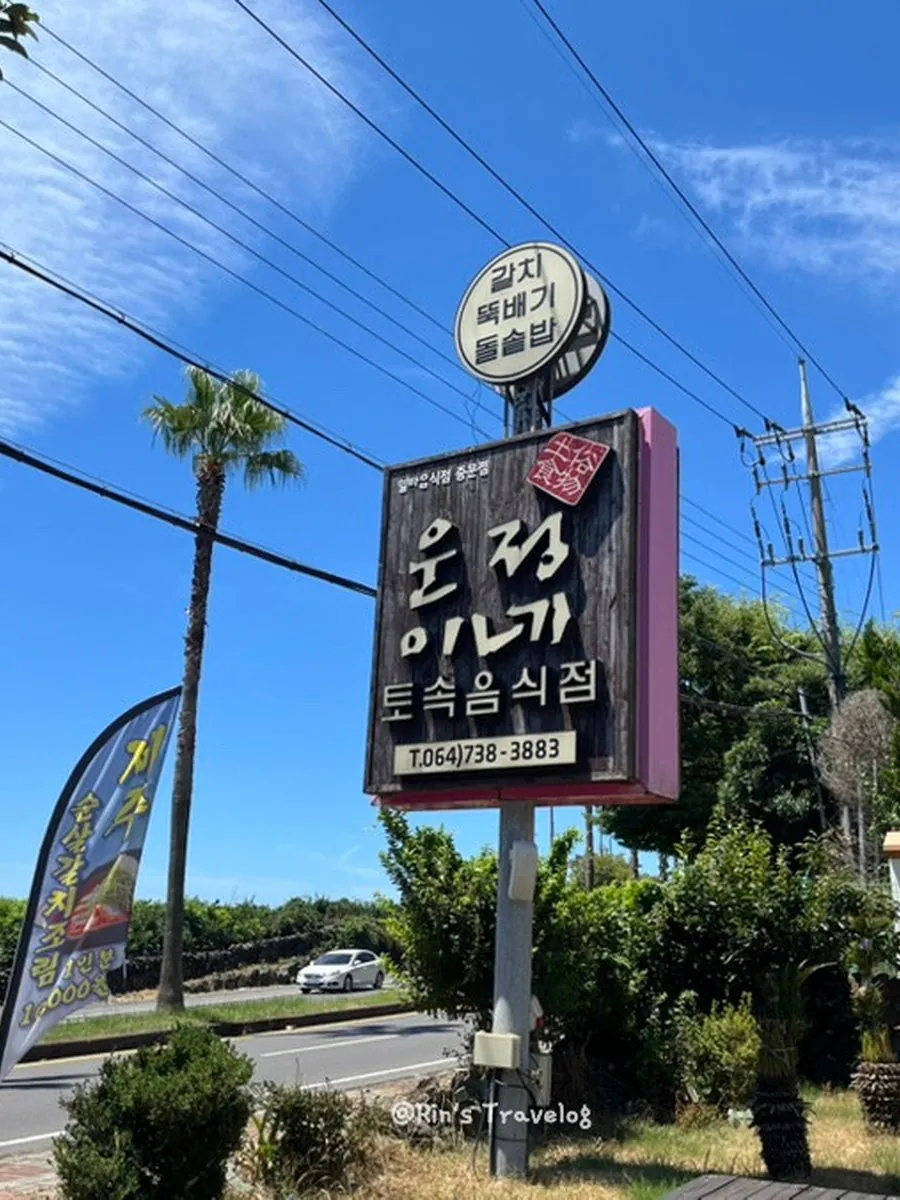
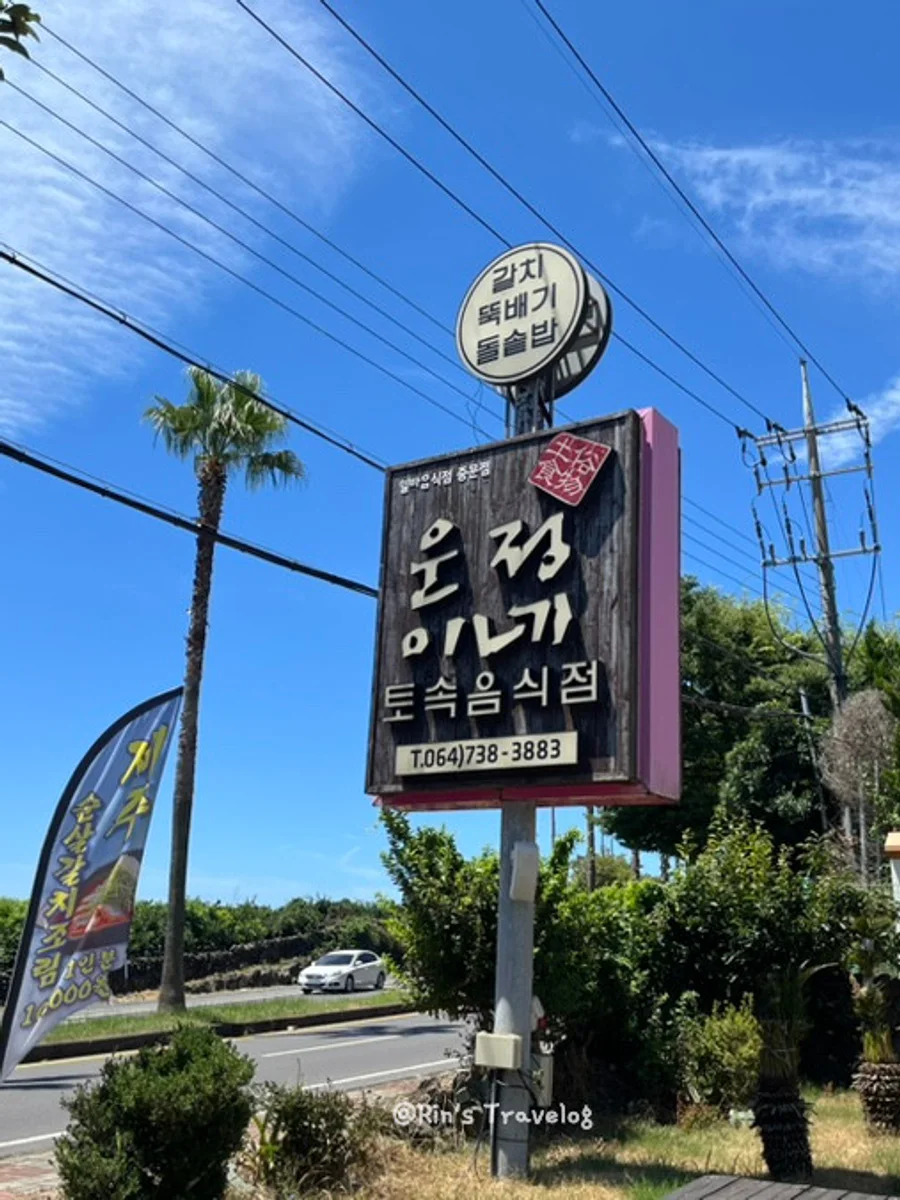
성공사례 갤러리 사진 교체

diff --git a/docs/IMAGES.md b/docs/IMAGES.md
@@ -84,12 +84,12 @@
 
 | ID | 파일 경로 | 위치 | 크기 (px) | 비율 | 넣을 이미지 (드라이브 원본) | alt |
 |---|---|---|---|---|---|---|
-| GALLERY-01 | public/assets/img/cases/gallery-01.webp | 함께한 제주 가게 줄 | 900×1200 | 3:4 | 적용 완료 | 함께한 제주 가게 외관 |
-| GALLERY-02 | public/assets/img/cases/gallery-02.webp | 〃 | 900×1200 | 3:4 | 적용 완료 | 함께한 제주 가게 외관 |
-| GALLERY-03 | public/assets/img/cases/gallery-03.webp | 〃 | 900×1200 | 3:4 | 적용 완료 | 함께한 제주 가게 외관 |
-| GALLERY-04 | public/assets/img/cases/gallery-04.webp | 〃 | 900×1200 | 3:4 | 적용 완료 | 함께한 제주 가게 외관 |
-| GALLERY-05 | public/assets/img/cases/gallery-05.webp | 〃 | 900×1200 | 3:4 | 적용 완료 | 함께한 제주 가게 외관 |
-| GALLERY-06 | public/assets/img/cases/gallery-06.webp | 〃 | 900×1200 | 3:4 | 적용 완료 · 피플제주_외관.jpg | 피플제주 외관 |
+| GALLERY-01 | public/assets/img/cases/gallery-01.webp | 함께한 제주 가게 줄 | 900×1200 | 3:4 | 적용 완료 · 다정이네김밥_외관.jpeg | 다정이네김밥 외관 |
+| GALLERY-02 | public/assets/img/cases/gallery-02.webp | 〃 | 900×1200 | 3:4 | 적용 완료 · 소플러스제주점_외관.jpg | 소플러스 제주점 외관 |
+| GALLERY-03 | public/assets/img/cases/gallery-03.webp | 〃 | 900×1200 | 3:4 | 적용 완료 · 운정이네_외관간판.jpeg · 간판 중심 크롭 | 운정이네 외관 간판 |
+| GALLERY-04 | public/assets/img/cases/gallery-04.webp | 〃 | 900×1200 | 3:4 | 적용 완료 · 장모식탁_외관.jpg · 간판 중심 크롭 | 장모식탁 외관 |
+| GALLERY-05 | public/assets/img/cases/gallery-05.webp | 〃 | 900×1200 | 3:4 | 적용 완료 · 충민정_외관.jpeg · 간판·입구 중심 크롭 | 충민정 외관 |
+| GALLERY-06 | public/assets/img/cases/gallery-06.webp | 〃 | 900×1200 | 3:4 | 적용 완료 · 피플제주_외관.jpg · 간판·입구 중심 크롭 | 피플제주 외관 |
 | GALLERY-07 | public/assets/img/cases/gallery-07.webp | 〃 | 900×1200 | 3:4 | 적용 완료 · 안녕전복_외관측면.jpeg | 안녕전복 외관 |
 | GALLERY-08 | public/assets/img/cases/gallery-08.webp | 〃 | 900×1200 | 3:4 | 적용 완료 · 운정이네_외관.jpeg | 운정이네 외관 |
 | CASE-01 | public/assets/img/cases/case-01.webp | 사례 1 | 1200×900 | 4:3 | 소플러스공항점_외관.jpg | 소플러스 제주노형공항점 외관 |
